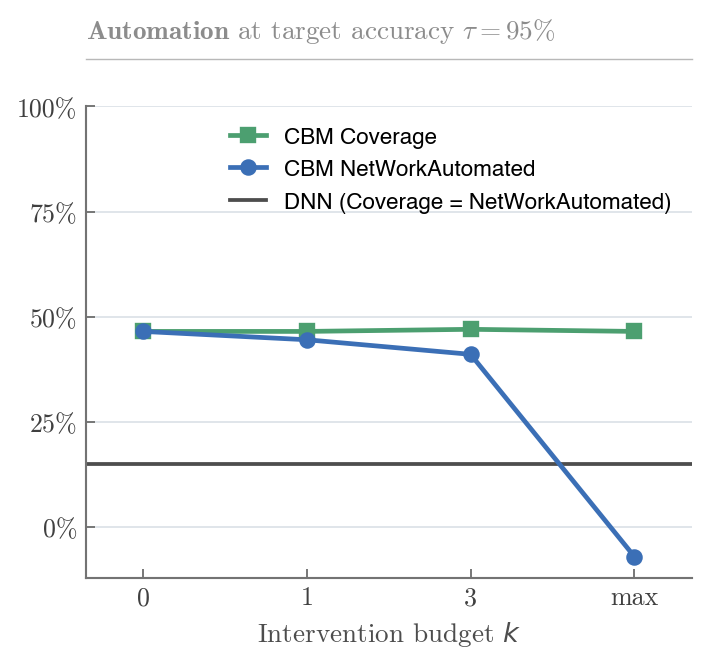
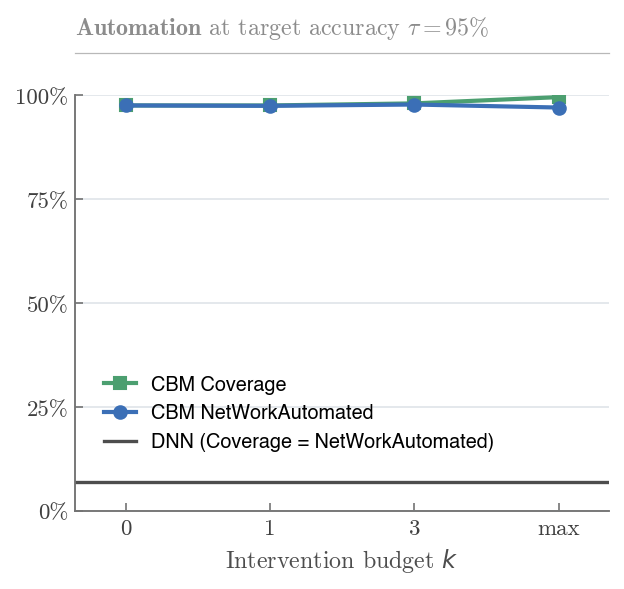
README: the sudoku quickstart figure and its reading from the regenerated boards

diff --git a/README.md b/README.md
@@ -429,7 +429,7 @@ Run `python scripts/sudoku_pipeline.py --help` for the full list of options (inc
 
 #### Training and evaluation
 
-Quickstart: one command trains the paper's models on the handwritten boards of one seed (18 px per cell, the paper's hard setting) and draws the figure below:
+Quickstart: one command trains the paper's models on the handwritten boards of one seed (18 px per cell, where the digits are harder to read) and draws the figure below:
 
 ```bash
 python scripts/sudoku_pipeline.py --seed 171 --cell-px 18 --target-accuracy 0.95 --stages setup ocr cs dnn intervene selective collect plot
@@ -466,10 +466,12 @@ fig.savefig("sudoku_example.png", dpi=150, bbox_inches="tight")
   <img src="https://raw.githubusercontent.com/ustunb/concept-benchmark/main/docs/assets/sudoku_example.png" width="480" alt="Coverage and net work automated against the intervention budget for the CBM and the DNN, one run">
 </p>
 
-One run of the pipeline command. On this run the CBM meets the 95% target by keeping 46% of the boards (the DNN 15%),
-and checking all 27 concepts costs more work than it saves, so net work automated turns negative at k=max. A single
-run can land on either side of the target; over the paper's 10 seeds the CBM keeps 83% of the boards and net work
-automated falls to 68% at k=max. With the digits instead of the images, as in the code block, the CBM keeps every board.
+One run of the pipeline command. The CBM answers 97.5% of the boards on its own (the DNN 7%) and 99.5% after a
+human checks up to 27 concepts on the boards it defers; the checks cost about as much work as they recover, so net
+work automated stays at 97%. The abstention threshold is fitted on the validation boards; on the test boards of this
+run the answered predictions are 89% correct, below the 95% target, because a misread digit makes the model
+confidently wrong on a few boards that it never defers. With the digits instead of the images, as in the code block,
+the CBM keeps every board.
 
 For a complete walkthrough including selective classification and interventions, see [`examples/sudoku_pipeline_example.py`](https://github.com/ustunb/concept-benchmark/blob/main/examples/sudoku_pipeline_example.py).
 
